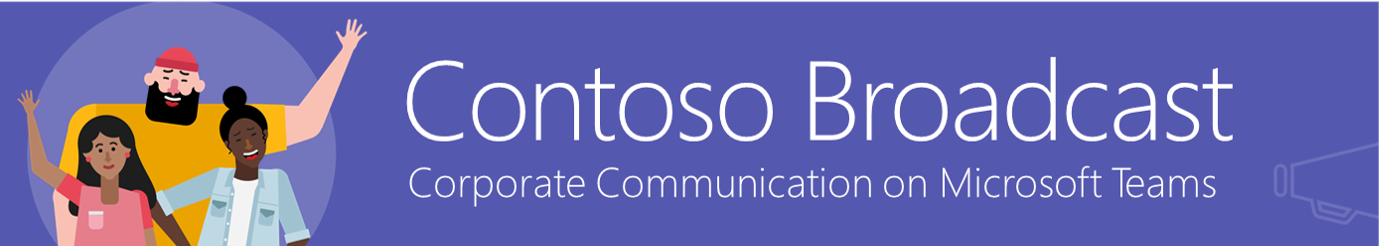
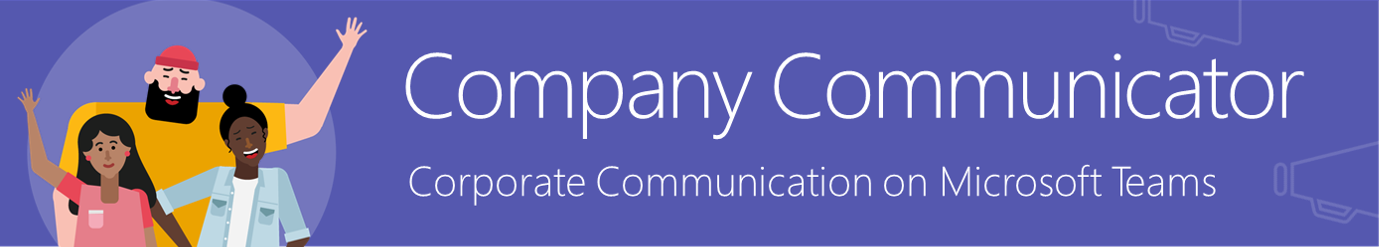
Change name to Company Communicator.

diff --git a/Cross Vertical/Announcement/Helpers/AdaptiveCardDesigns.cs b/Cross Vertical/Announcement/Helpers/AdaptiveCardDesigns.cs
@@ -36,7 +36,7 @@ namespace CrossVertical.Announcement.Helpers
                             new AdaptiveTextBlock()
                             {
                                 IsSubtle=true,
-                                Text="Get the message out to employees using Microsoft Teams. Send announcements to a set of employees, stores, roles or locations in one or more channels or individually.\nUsing this app, you can:",
+                                Text=$"Get the message out to employees using Microsoft Teams. Send {ApplicationSettings.AppFeature} to a set of employees, stores, roles or locations in one or more channels or individually.\nUsing this app, you can:",
                                 Wrap=true
                             },
                             new AdaptiveTextBlock()
@@ -44,7 +44,7 @@ namespace CrossVertical.Announcement.Helpers
                                 Size=AdaptiveTextSize.Small,
                                 IsSubtle=true,
                                 Wrap=true,
-                                Text="* Collaborate and communicate with large employee groups\n* Target announcements via 1:1 chats for select employees\n* Post in Channels to encourage discussion and feedback\n* Deliver announcements to desktop, web clients or mobile clients of Microsoft Teams  – wherever users are\n* Track and report employee engagement on what you post\n* Track and report employee’s “read receipt if requested "
+                                Text=$"* Collaborate and communicate with large employee groups\n* Target {ApplicationSettings.AppFeature} via 1:1 chats for select employees\n* Post in Channels to encourage discussion and feedback\n* Deliver {ApplicationSettings.AppFeature}s to desktop, web clients or mobile clients of Microsoft Teams  – wherever users are\n* Track and report employee engagement on what you post\n* Track and report employee’s “read receipt if requested "
                             },
                             new AdaptiveTextBlock()
                             {
@@ -203,7 +203,7 @@ namespace CrossVertical.Announcement.Helpers
                                             {
                                                 new AdaptiveTextBlock()
                                                 {
-                                                    Text="Please select schedule for your anouncement:"
+                                                    Text=$"Please select schedule for your {ApplicationSettings.AppFeature}:"
                                                 },
                                                 new AdaptiveDateInput()
                                                 {
@@ -294,7 +294,7 @@ namespace CrossVertical.Announcement.Helpers
                                             {
                                                 new AdaptiveTextBlock()
                                                 {
-                                                    Text="Schedule your anouncement here"
+                                                    Text=$"Schedule your {ApplicationSettings.AppFeature} here"
                                                 },
                                                 new AdaptiveDateInput()
                                                 {

diff --git a/Cross Vertical/Announcement/Models/CampaignAdaptiveCard.cs b/Cross Vertical/Announcement/Models/CampaignAdaptiveCard.cs
@@ -61,7 +61,7 @@ namespace CrossVertical.Announcement.Models
                             },
                             new AdaptiveTextBlock()
                             {
-                                Text = "This announcement will be sent from the Contoso Broadcast app handle. Fields marked with (*) are mandatory while composing.",
+                                Text = $"This {ApplicationSettings.AppFeature} will be sent from the {ApplicationSettings.AppName} app handle. Fields marked with (*) are mandatory while composing.",
                                 Size = AdaptiveTextSize.Small,
                                 Color = AdaptiveTextColor.Accent,
                                 Spacing = AdaptiveSpacing.Small,

diff --git a/Cross Vertical/Announcement/Controllers/MessagesController.cs b/Cross Vertical/Announcement/Controllers/MessagesController.cs
@@ -111,7 +111,7 @@ namespace CrossVertical.Announcement.Controllers
                     var campaign = await Cache.Announcements.GetItemAsync(editAnnouncement.Data.Data.Id);
                     if (campaign == null || campaign.Status == Status.Sent)
                     {
-                        card = JObject.FromObject(AdaptiveCardDesigns.GetUpdateMessageCard("This announcement is already sent and not allowed to edit."));
+                        card = JObject.FromObject(AdaptiveCardDesigns.GetUpdateMessageCard($"This {Helper.ApplicationSettings.AppFeature} is already sent and not allowed to edit."));
                         taskInfo["height"] = 100;
                         taskInfo["width"] = 500;
                     }

diff --git a/Cross Vertical/Announcement/Helpers/ApplicationSettings.cs b/Cross Vertical/Announcement/Helpers/ApplicationSettings.cs
@@ -3,6 +3,11 @@ namespace CrossVertical.Announcement.Helper
 {
     public static class ApplicationSettings
     {
+        public static string AppName { get; set; } = "Company Communicator";
+
+        public static string AppFeature { get; set; } = "message";
+
+
         public static string BaseUrl { get; set; }
 
         public static string ConnectionName { get; set; }

diff --git a/Cross Vertical/Announcement/Global.asax.cs b/Cross Vertical/Announcement/Global.asax.cs
@@ -20,10 +20,9 @@ namespace CrossVertical.Announcement
     {
         protected void Application_Start()
         {
-            DocumentDBRepository.Initialize();
-
             new Task(async () =>
             {
+                await DocumentDBRepository.Initialize();
                 await AnnouncementScheduler.InitializeSchedulesFromDB();
             }).Start();
 
